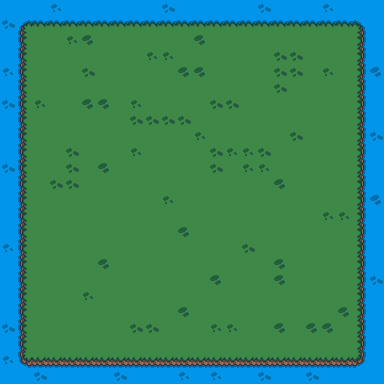
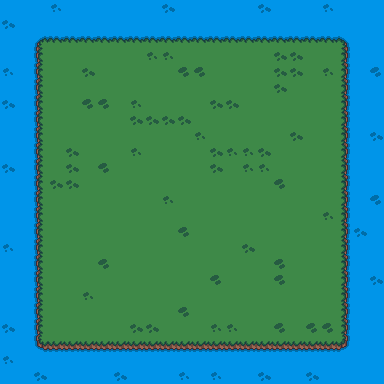
Added Bounds to the world

Changed region(s): [[0.0312, 0.0312, 0.9688, 0.9688]]

diff --git a/main.cpp b/main.cpp
@@ -11,6 +11,7 @@ int main()
     //Load Map
     Texture2D mapTexture = LoadTexture("assets/worldmap/WorldMap.png");
     Vector2 mapPos = {0.0, 0.0};
+    const float mapScale = 4.f;
 
     Character knight;
     knight.setScreenPos(screenWidth, screenHeight);
@@ -24,9 +25,17 @@ int main()
         mapPos = Vector2Scale(knight.getWorldPos(), -1.f);
 
         //Draw Map
-        DrawTextureEx(mapTexture, mapPos, 0.0, 4.0, WHITE);
+        DrawTextureEx(mapTexture, mapPos, 0.0, mapScale, WHITE);
 
         knight.tick(GetFrameTime());
+        //Check Maps Bounds
+        if(knight.getWorldPos().x < 0.f ||
+           knight.getWorldPos().y < 0.f ||
+           knight.getWorldPos().x + screenWidth > mapTexture.width * mapScale || 
+           knight.getWorldPos().y + screenHeight > mapTexture.height * mapScale)
+        {
+            knight.undoMovement();
+        }
 
         EndDrawing();
     }

diff --git a/Character.h b/Character.h
@@ -7,12 +7,14 @@ class Character
         Vector2 getWorldPos() { return worldPos; }
         void setScreenPos(int winWidth, int winHeight);
         void tick(float deltaTime);
+        void undoMovement();
     private:
         Texture2D texture = LoadTexture("assets/characters/knight_idle_spritesheet.png");
         Texture2D idle = LoadTexture("assets/characters/knight_idle_spritesheet.png");
         Texture2D run = LoadTexture("assets/characters/knight_run_spritesheet.png");
         Vector2 screenPos{};
         Vector2 worldPos{};
+        Vector2 worldPoslastFrame{};
         // 1 : facing right, -1 : facing left
         float rightLeft = 1.f;
         //Anim Var
@@ -22,5 +24,5 @@ class Character
         float updateTime = 1.f/12.f;
         float speed = 4.f;
         float width = 0;
-        float height = 0;
+        float height = 0;      
 };

diff --git a/Character.cpp b/Character.cpp
@@ -17,6 +17,8 @@ void Character::setScreenPos(int winWidth, int winHeight)
 
 void Character::tick(float deltaTime)
 {
+    worldPoslastFrame = worldPos;
+
     Vector2 direction{};
     if(IsKeyDown(KEY_A)) direction.x -= 1.0;
     if(IsKeyDown(KEY_D)) direction.x += 1.0;
@@ -46,4 +48,9 @@ void Character::tick(float deltaTime)
     Rectangle kightSource = {width * frame, 0.0f, rightLeft * width, height};
     Rectangle knightDest = {screenPos.x, screenPos.y, 4.0f * width, 4.0f * height};      
     DrawTexturePro(texture, kightSource, knightDest, Vector2{}, 0.0f, WHITE);
+}
+
+void Character::undoMovement()
+{
+    worldPos = worldPoslastFrame;
 }
